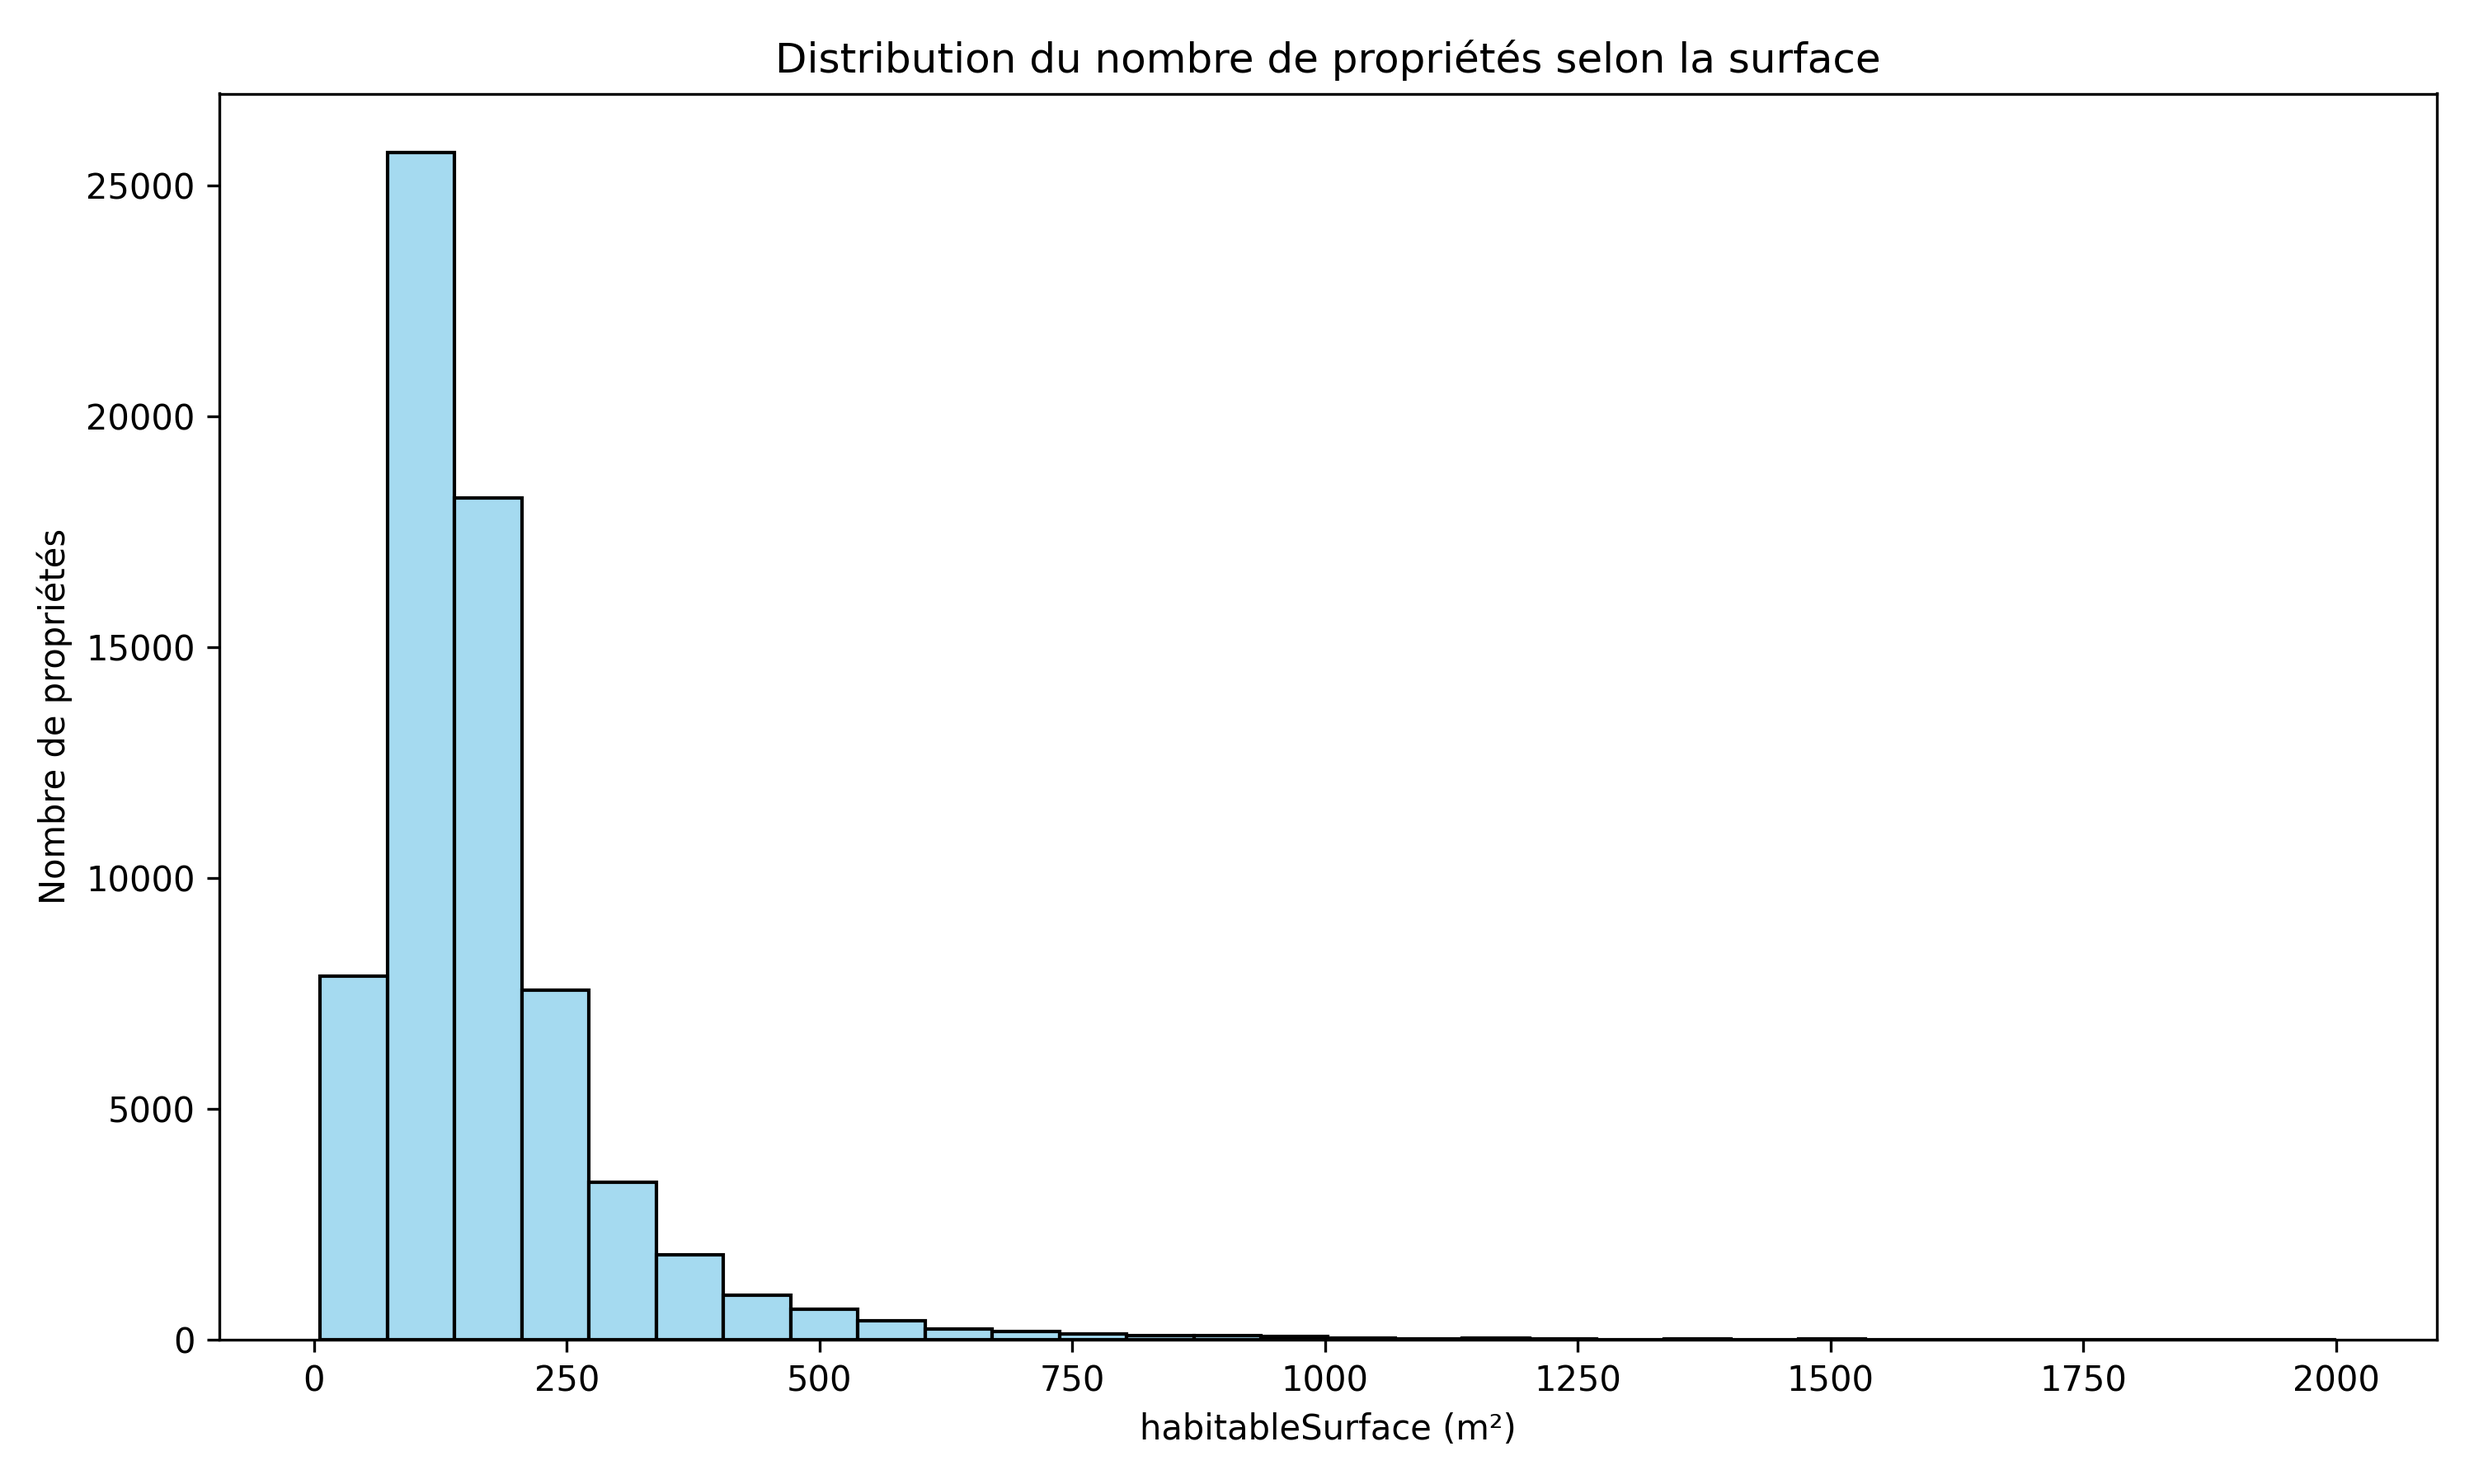
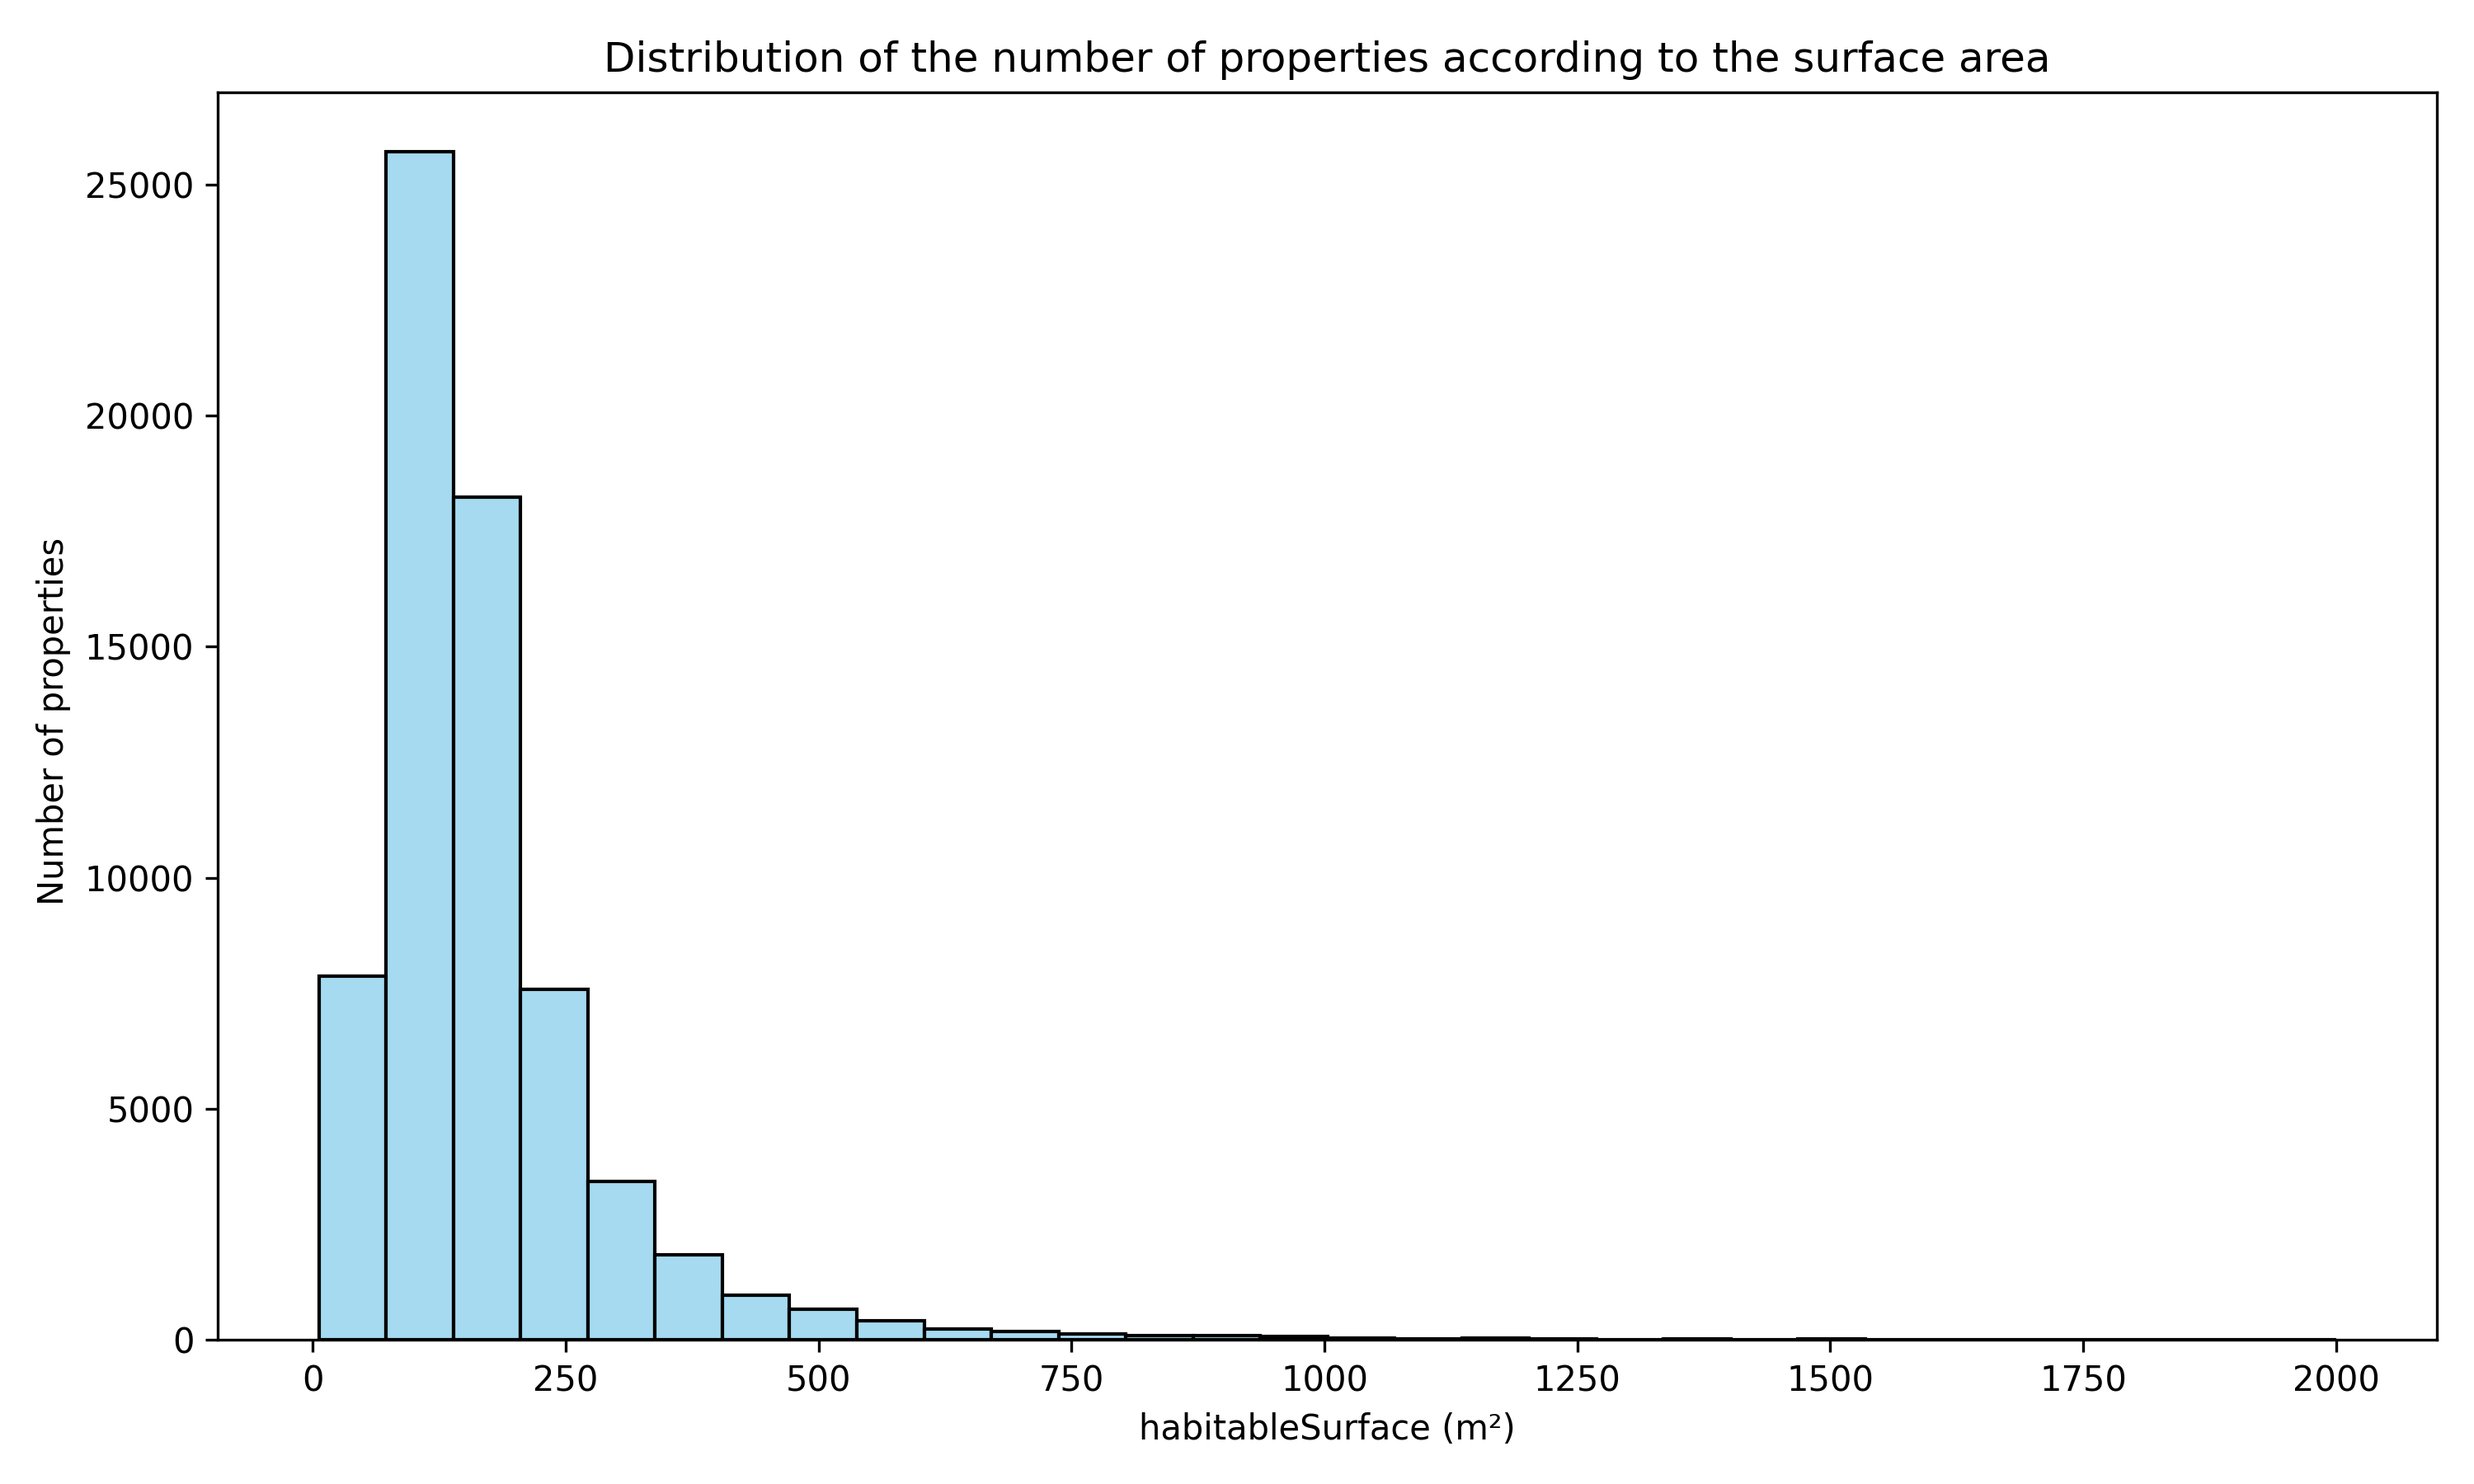
last version

diff --git a/src/data_interpretation_plots.py b/src/data_interpretation_plots.py
@@ -6,30 +6,6 @@ import matplotlib.patches as mpatches
 
 matplotlib.use('TkAgg')
 
-def data_interpretation_plots(df: pd.DataFrame, show_plot: bool):
-    plot_surface_histogram(df, "plots/05_histogram_surface.png", show_plot)
-
-    # Appliquer le mapping des régions
-    df = assign_region(df)
-
-    # Belgique
-    top_be = get_top_localities(df)
-    plot_top_localities(top_be, "Top 10 Most Expensive Localities in Belgium", "plots/06_top_expensive_belgium.png", show_plot)
-
-    # Wallonie
-    top_wal = get_top_localities(df, region_filter="Wallonie")
-    plot_top_localities(top_wal, "Top 10 Most Expensive Localities in Wallonia", "plots/07_top_expensive_wallonia.png", show_plot)
-
-    # Flandre
-    top_vla = get_top_localities(df, region_filter="Flandre")
-    plot_top_localities(top_vla, "Top 10 Most Expensive Localities in Flanders", "plots/08_top_expensive_flander.png", show_plot)
-
-    # Bruxelles
-    top_bru = get_top_localities(df, region_filter="Bruxelles")
-    plot_top_localities(top_bru, "Top 10 Most Expensive Localities in Brussels", "plots/09_top_expensive_bruxelles.png", show_plot)
-
-    # big value for surface
-    plot_big_surface_boxplot(df, min_surface=1000, plot_file_path="plots/10_big_surface_boxplot.png", show_plot=show_plot)
 
 
 def plot_surface_histogram(df: pd.DataFrame, plot_file_path: str, show_plot: bool) -> None:
@@ -53,9 +29,9 @@ def plot_surface_histogram(df: pd.DataFrame, plot_file_path: str, show_plot: boo
         # Création de l'histogramme
         plt.figure(figsize=(10, 6))
         sns.histplot(surface_data, bins=30, kde=False, color="skyblue", edgecolor="black")
-        plt.title("Distribution du nombre de propriétés selon la surface")
+        plt.title("Distribution of the number of properties according to the surface area")
         plt.xlabel("habitableSurface (m²)")
-        plt.ylabel("Nombre de propriétés")
+        plt.ylabel("Number of properties ")
         plt.tight_layout()
 
         if plot_file_path:
@@ -153,8 +129,8 @@ def plot_big_surface_boxplot(df: pd.DataFrame, surface_col="habitableSurface", p
         # Création du boxplot
         plt.figure(figsize=(8, 6))
         sns.boxplot(y=filtered_df[price_col], color="tomato")
-        plt.title(f"Distribution des prix pour les propriétés avec surface > {min_surface} m²")
-        plt.ylabel("Prix (€)")
+        plt.title(f"Price distribution for properties with surface area > {min_surface} m²")
+        plt.ylabel("Price (€)")
         plt.tight_layout()
 
         # Enregistrement du graphique
@@ -166,3 +142,31 @@ def plot_big_surface_boxplot(df: pd.DataFrame, surface_col="habitableSurface", p
 
     except Exception as e:
         print(f"[ERRO] Failed to plot big surface boxplot => {e}")
+
+def data_interpretation_plots(df: pd.DataFrame, show_plot: bool):
+    plot_surface_histogram(df, "plots/05_histogram_surface.png", show_plot)
+
+    # Appliquer le mapping des régions
+    df = assign_region(df)
+
+    # Belgique
+    top_be = get_top_localities(df)
+    plot_top_localities(top_be, "Top 10 Most Expensive Localities in Belgium", "plots/06_top_expensive_belgium.png", show_plot)
+
+    # Wallonie
+    top_wal = get_top_localities(df, region_filter="Wallonie")
+    plot_top_localities(top_wal, "Top 10 Most Expensive Localities in Wallonia", "plots/07_top_expensive_wallonia.png", show_plot)
+
+    # Flandre
+    top_vla = get_top_localities(df, region_filter="Flandre")
+    plot_top_localities(top_vla, "Top 10 Most Expensive Localities in Flanders", "plots/08_top_expensive_flander.png", show_plot)
+
+    # Bruxelles
+    top_bru = get_top_localities(df, region_filter="Bruxelles")
+    plot_top_localities(top_bru, "Top 10 Most Expensive Localities in Brussels", "plots/09_top_expensive_bruxelles.png", show_plot)
+
+    # big value for surface
+    plot_big_surface_boxplot(df, min_surface=1000, plot_file_path="plots/10_big_surface_boxplot.png", show_plot=show_plot)
+
+df = pd.read_csv("data/data_cleanned.csv")
+data_interpretation_plots(df, show_plot=True)

diff --git a/src/more_expensive_region.py b/src/more_expensive_region.py
@@ -9,14 +9,13 @@ data = DataCleanner("data/data_cleanned.csv")
 df = data.load_data_file()
 
 # Ensure necessary fields are clean and usable
-# Filtres qualité
 df = df[
     (df["habitableSurface"].notna()) &
     (df["habitableSurface"] > 10) &
     (df["habitableSurface"] < 25000) &
     (df["price"] > 10000) &
     (df["price"] < 800000)
-]
+]  # remove abnormal entries to have valid surface data only
 df["price_per_m2"] = df["price"] / df["habitableSurface"]
 
 ####################################################################################
@@ -60,11 +59,11 @@ agg_df = summary_df.groupby(["region", "province","locality"]).agg(
 # Function to plot by region
 def plot_top_cheapest(df_region, title_prefix):
     fig, axes = plt.subplots(1, 3, figsize=(18, 6))
-    fig.suptitle(f" {title_prefix} - Top 10 Least Expensive Municipalities -", fontsize=16)
+    fig.suptitle(f" {title_prefix} - Top 10 Most Expensive Municipalities -", fontsize=16)
 
     # Average Price
     sns.barplot(
-        data=df_region.nsmallest(10, "avg_price"),
+        data=df_region.nlargest(10, "avg_price"), 
         x="avg_price", y="locality",
         palette="Blues_r", ax=axes[0]
     )
@@ -72,7 +71,7 @@ def plot_top_cheapest(df_region, title_prefix):
 
     # Median Price
     sns.barplot(
-        data=df_region.nsmallest(10, "med_price"),
+        data=df_region.nlargest(10, "med_price"),
         x="med_price", y="locality",
         palette="Greens_r", ax=axes[1]
     )
@@ -80,7 +79,7 @@ def plot_top_cheapest(df_region, title_prefix):
 
     # Price per m²
     sns.barplot(
-        data=df_region.nsmallest(10, "price_m2"),
+        data=df_region.nlargest(10, "price_m2"),
         x="price_m2", y="locality",
         palette="Oranges_r", ax=axes[2]
     )
